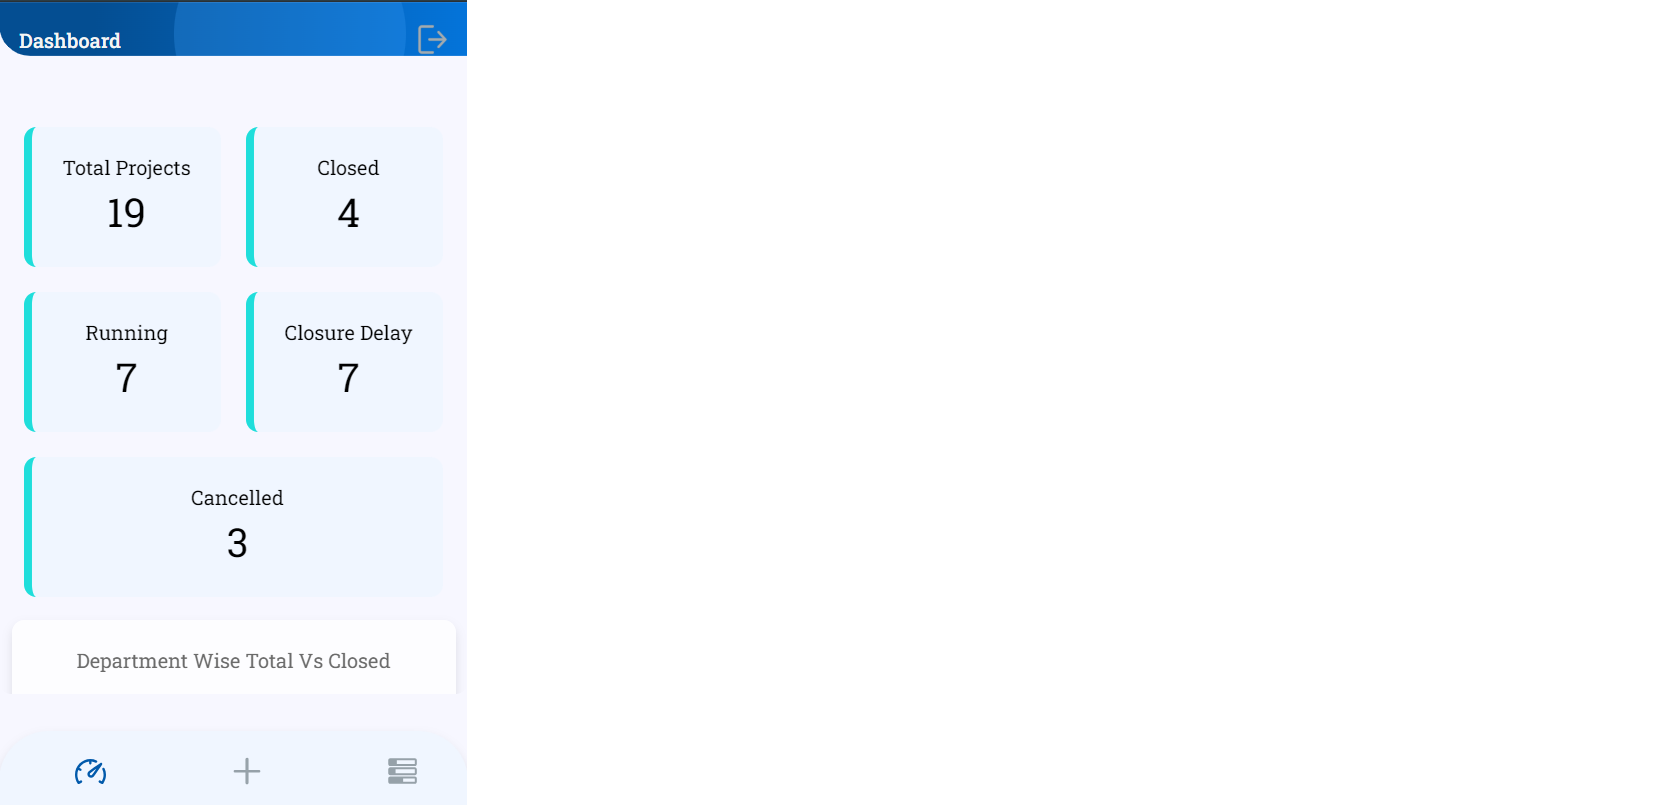
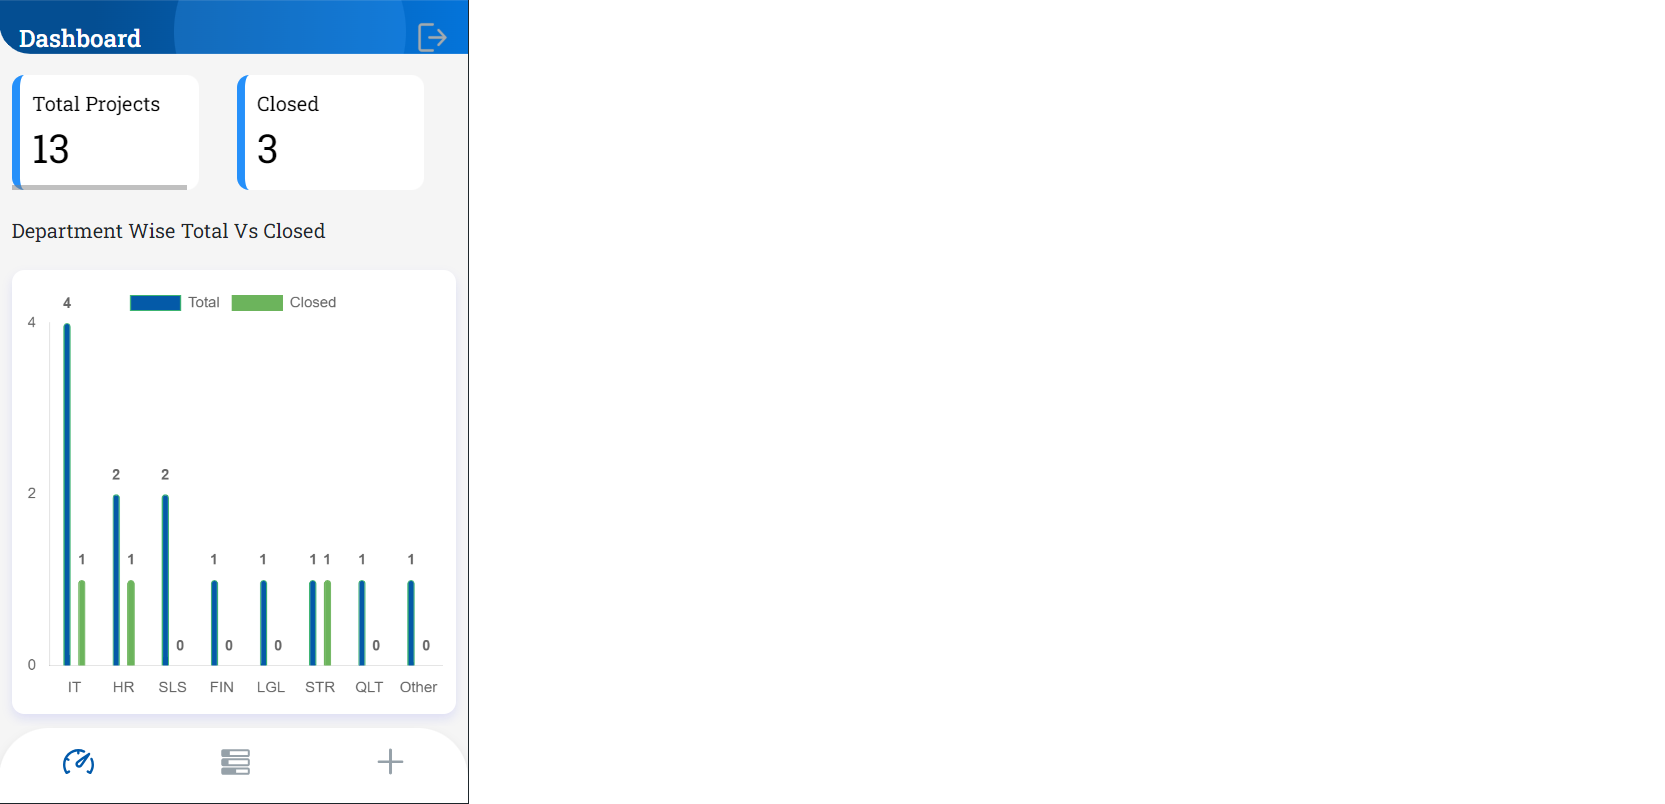
Clouser Delay Update

diff --git a/Frontend/Project Management System/src/components/Login.tsx b/Frontend/Project Management System/src/components/Login.tsx
@@ -13,6 +13,8 @@ const Login: React.FC = () => {
   const { login } = useAuth();
   const navigate = useNavigate();
 
+  const [message,SetMessage]=useState('');
+
   const [usernameNullCheck, setUsernameNullCheck] = useState(false);
   const [passwordNullCheck, setPasswordNullCheck] = useState(false);
   const [validationCheck, setValidationCheck] = useState(false);
@@ -48,6 +50,7 @@ const Login: React.FC = () => {
       setPasswordNullCheck(false);
     }
 
+   
     if (username.trim() && password.trim()) {
       const credentials = {
         username,
@@ -65,6 +68,7 @@ const Login: React.FC = () => {
         if (response.ok) {
           login(data.token); // Call login to set token and state, and navigate to dashboard
         } else {
+          SetMessage(data.message);
           setValidationCheck(true);
           // alert('Login failed. Please check your credentials.');
           console.log('Unsuccessful:', data.message);
@@ -116,7 +120,7 @@ const Login: React.FC = () => {
                         value={password}
                         onChange={(e) => setPassword(e.target.value)}
 
-                      />
+                      />  
                       <button
                           type="button"
                           className="password-toggle-btn"
@@ -136,12 +140,13 @@ const Login: React.FC = () => {
                       <button type="submit" className="btn btn-round btn-primary">
                         SIGN IN
                       </button>
-                      <p className={`${validationCheck ? 'show-warning' : 'warning'}`}>Invalid Credentials</p>
+                      <p className={`${validationCheck ? 'show-warning' : 'warning'}`}>{message}</p>
                     </div>
                     
                   </form>
                 </div>
               </div>
+              {/* <p className={`${validationCheck ? 'show-warning' : 'warning'}`}>Invalid Credentials</p> */}
             </div>
           </div>
         </div>

diff --git a/Frontend/Project Management System/src/components/Dashboard.tsx b/Frontend/Project Management System/src/components/Dashboard.tsx
@@ -56,7 +56,7 @@ const Dashboard: React.FC = () => {
                 setTotalProjects(data.Total || 0);
                 setClosedProjects(data.Closed || 0);
                 setRunningProjects(data.Running || 0);
-                setClosureDelayProjects(data.Running || 0);
+                setClosureDelayProjects(data.closure_delay || 0);
                 setCancelledProjects(data.Cancelled || 0);
 
             } catch (error) {

diff --git a/Frontend/Project Management System/src/main.tsx b/Frontend/Project Management System/src/main.tsx
@@ -8,9 +8,7 @@ const container = document.getElementById('root');
 const root = createRoot(container!); // Create root and assert non-null
 
 root.render(
-  <React.StrictMode>
     <BrowserRouter>
       <App />
     </BrowserRouter>
-  </React.StrictMode>
 );

diff --git a/Frontend/Project Management System/src/css/Login.css b/Frontend/Project Management System/src/css/Login.css
@@ -202,7 +202,7 @@
 @media screen and (max-width: 480px) {
   .login-box {
     width: auto;
-    margin: 20px auto;
+    margin: 35px auto;
   }
 
   .log-det {

diff --git a/Backend/onlineProjectManagment/src/main/java/com/project/onlineProjectManagment/repositories/ProjectRepo.java b/Backend/onlineProjectManagment/src/main/java/com/project/onlineProjectManagment/repositories/ProjectRepo.java
@@ -15,7 +15,7 @@ import java.util.List;
 public interface ProjectRepo extends JpaRepository<Project,Long> {
 
 
-    @Query(value = "SELECT p.status,count(p.status) FROM projects p group by p.status",nativeQuery = true)
+    @Query(value = "SELECT p.status,count(p.status) FROM projects p group by p.status union all select 'closure_delay',count(id) from projects where end_date < now() ;",nativeQuery = true)
     List<Object[]> fetchAllCount();
 
     @Query(value = "SELECT department,COUNT(id) AS total,SUM(CASE WHEN status = 'Closed' THEN 1 ELSE 0 END) AS closed FROM project_management.projects GROUP BY department", nativeQuery = true)

diff --git a/Backend/onlineProjectManagment/src/main/java/com/project/onlineProjectManagment/Controllers/AuthController.java b/Backend/onlineProjectManagment/src/main/java/com/project/onlineProjectManagment/Controllers/AuthController.java
@@ -53,7 +53,7 @@ public class AuthController {
             return new ResponseEntity<>(apiResponse,HttpStatus.OK);
         }catch (Exception e){
             logger.info(e.getMessage());
-            apiResponse.setMessage("Invalid User "+ e.getMessage());
+            apiResponse.setMessage(e.getMessage());
             apiResponse.setStatus(ResponseStatus.FAILURE);
             return new ResponseEntity<>(apiResponse,HttpStatus.FORBIDDEN);
         }
